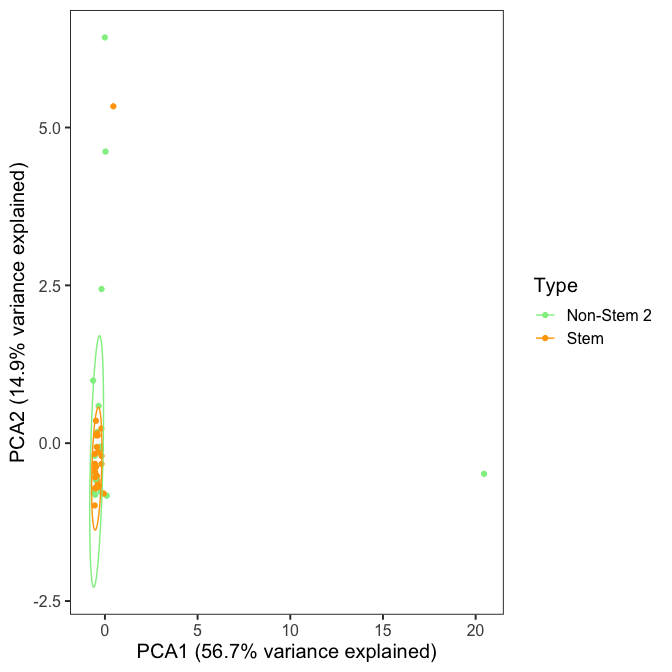
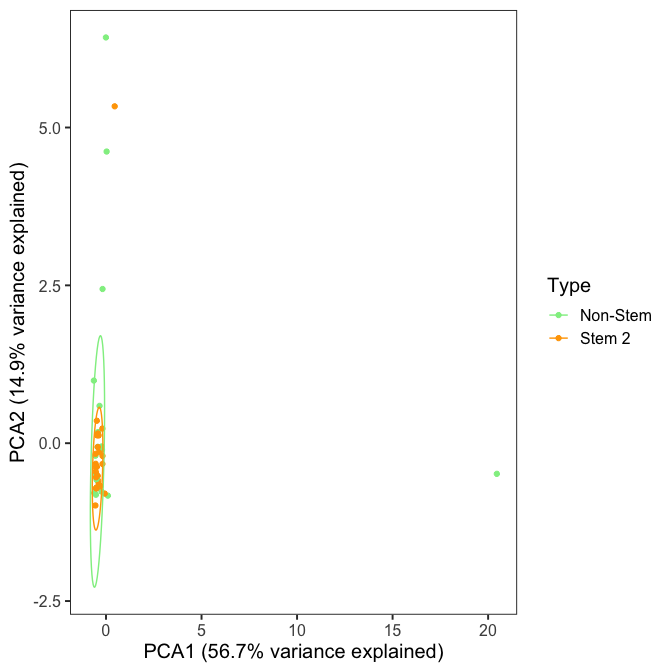
Modify labesls and colors in CRC07

diff --git a/reports/CRC07.md b/reports/CRC07.md
@@ -24,7 +24,7 @@ popdata <- read.table(here::here("data/CRC07_group_FIXED_noLgr5.list"), h=T, sep
 color_anno = list( Sample = c("Bulk"="black", "Single-Cell"="grey"), #Change as needed
                    Tissue = c("Tumor"="red", "Normal"="blue"),
                    Location = c("Central"="brown", "Middle"="brown", "Distal"="yellow", "Proximal"="darkgreen"),
-                   Cell_type = c("Non-Stem 1"="lightblue", "Non-Stem 2"="lightgreen", "Stem"="orange", "ND"="white")
+                   Cell_type = c("Stem 1"="lightblue", "Non-Stem"="lightgreen", "Stem 2"="orange", "ND"="white")
 )
 
 ha1 <- rowAnnotation(df = popdata[,-1], col = color_anno, show_annotation_name = F, na_col = "white")
@@ -114,7 +114,7 @@ amv
     ## Variance components:
     ##             sigma2 P.value
     ## Tissue  0.00662413        
-    ## Region -0.00046686   0.003
+    ## Region -0.00046686       0
     ## Error   0.00631323        
     ## 
     ## Phi-statistics:
@@ -178,16 +178,16 @@ for (i in 1:(ntt-1) ){
         }
 ```
 
-    ## Normal_Distal  -  Normal_Proximal :  -0.0284       (P= 0.688 )  
+    ## Normal_Distal  -  Normal_Proximal :  -0.0284       (P= 0.6817 )  
     ## Normal_Distal  -  Tumor_Distal :  0.5552       (P<0.0001)  
-    ## Normal_Distal  -  Tumor_Middle :  0.1937       (P= 0.0322 )  
-    ## Normal_Distal  -  Tumor_Proximal :  -0.1291    (P= 0.9531 )  
+    ## Normal_Distal  -  Tumor_Middle :  0.1937       (P= 0.0399 )  
+    ## Normal_Distal  -  Tumor_Proximal :  -0.1291    (P= 0.9552 )  
     ## Normal_Proximal  -  Tumor_Distal :  0.4215     (P<0.0001)  
-    ## Normal_Proximal  -  Tumor_Middle :  0.1656     (P= 0.06019 )  
-    ## Normal_Proximal  -  Tumor_Proximal :  -0.05692     (P= 0.804 )  
-    ## Tumor_Distal  -  Tumor_Middle :  0.2096    (P= 0.0295 )  
+    ## Normal_Proximal  -  Tumor_Middle :  0.1656     (P= 0.06359 )  
+    ## Normal_Proximal  -  Tumor_Proximal :  -0.05692     (P= 0.7931 )  
+    ## Tumor_Distal  -  Tumor_Middle :  0.2096    (P= 0.0303 )  
     ## Tumor_Distal  -  Tumor_Proximal :  0.5309      (P<0.0001)  
-    ## Tumor_Middle  -  Tumor_Proximal :  0.1965      (P= 0.05079 )
+    ## Tumor_Middle  -  Tumor_Proximal :  0.1965      (P= 0.05119 )
 
 ## Tissue/Type
 
@@ -213,12 +213,12 @@ for (i in 1:(ntt-1) ){
         }
 ```
 
-    ## Normal_Non-Stem 2  -  Normal_Stem :  0.09019       (P= 0.044 )  
-    ## Normal_Non-Stem 2  -  Tumor_Non-Stem 2 :  0.2174       (P= 0.0017 )  
-    ## Normal_Non-Stem 2  -  Tumor_Stem :  0.3563     (P<0.0001)  
-    ## Normal_Stem  -  Tumor_Non-Stem 2 :  0.1526     (P= 0.0257 )  
-    ## Normal_Stem  -  Tumor_Stem :  0.4032       (P= 2e-04 )  
-    ## Tumor_Non-Stem 2  -  Tumor_Stem :  0.07761     (P= 0.08189 )
+    ## Normal_Non-Stem  -  Normal_Stem 2 :  0.09019       (P= 0.0424 )  
+    ## Normal_Non-Stem  -  Tumor_Non-Stem :  0.2174       (P= 0.0009999 )  
+    ## Normal_Non-Stem  -  Tumor_Stem 2 :  0.3563     (P<0.0001)  
+    ## Normal_Stem 2  -  Tumor_Non-Stem :  0.1526     (P= 0.0234 )  
+    ## Normal_Stem 2  -  Tumor_Stem 2 :  0.4032       (P<0.0001)  
+    ## Tumor_Non-Stem  -  Tumor_Stem 2 :  0.07761     (P= 0.07829 )
 
 # Copy Number (fastmitocalc):
 
